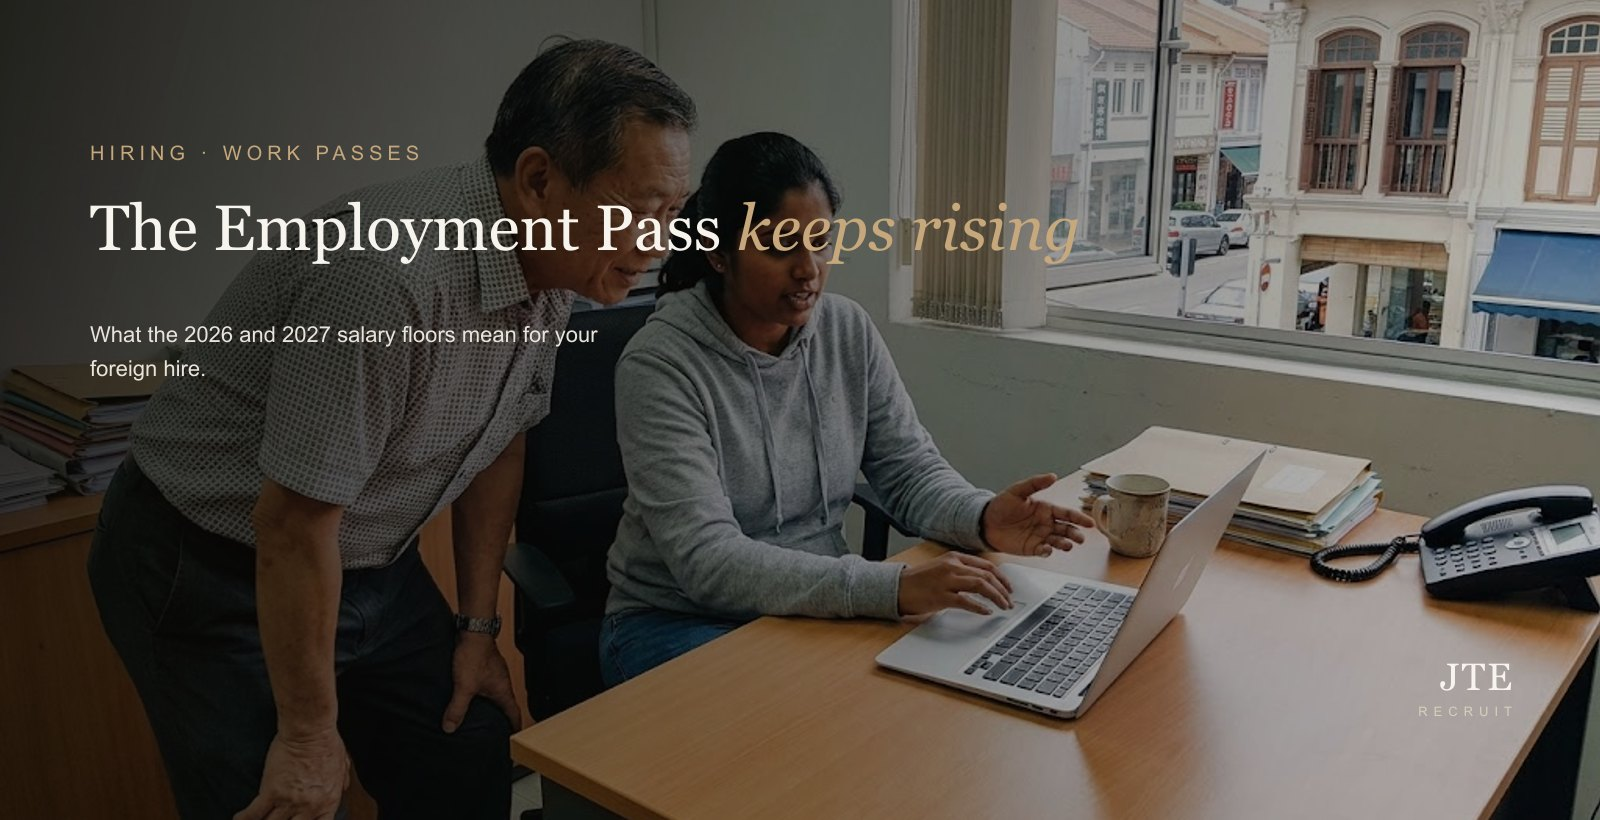
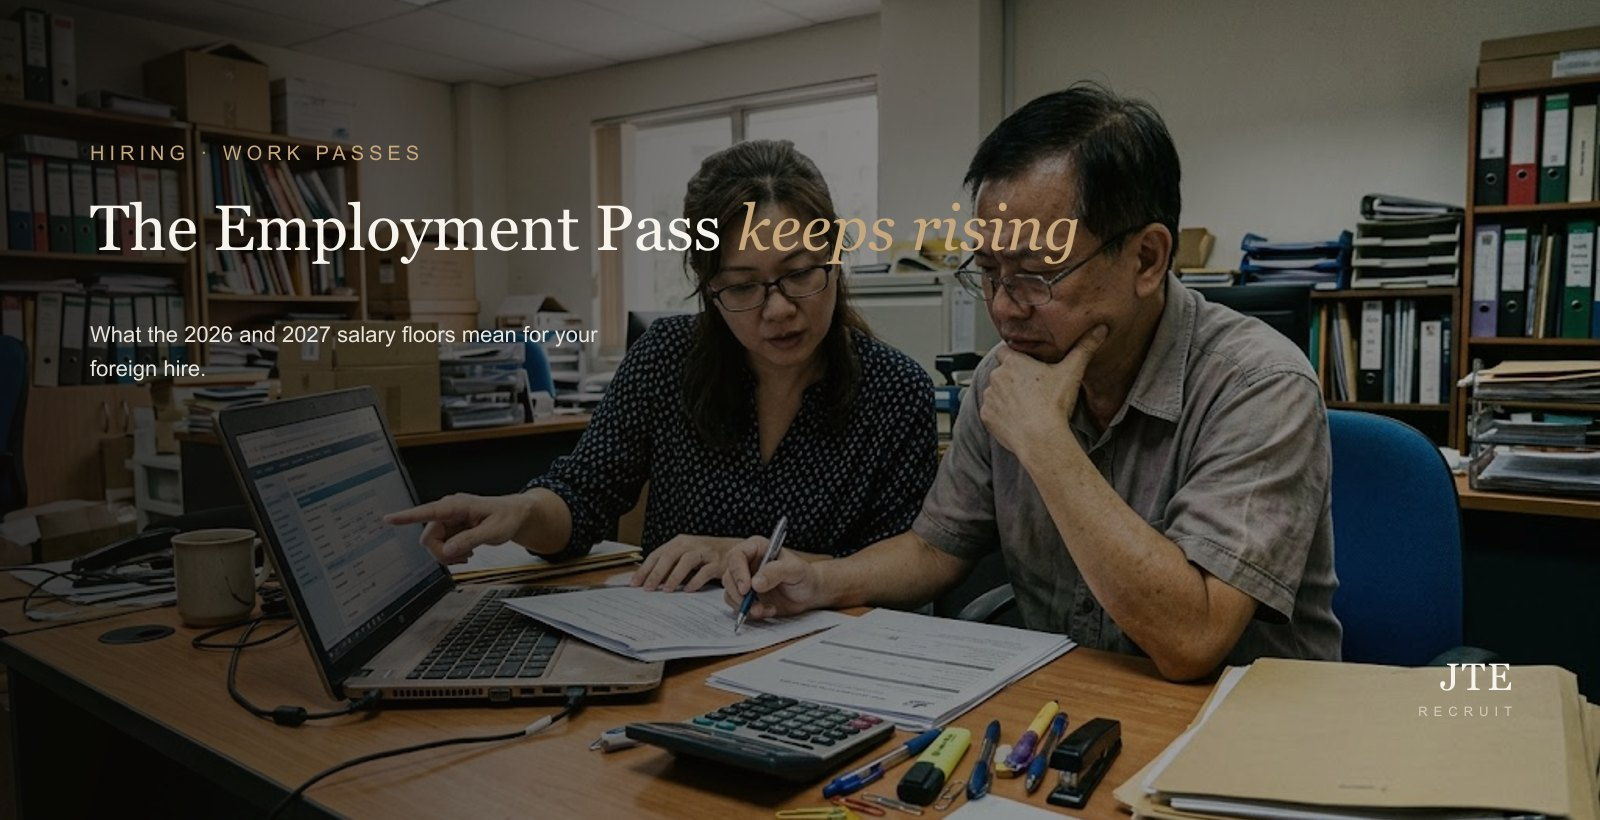
Place Eugene's photos: year-end (woman-on-phone hero + pensive-man body), EP/COMPASS (two-person review hero)
Claude-Session: https://claude.ai/code/session_01Q3xYBeyJPAcKPVopMAYY2i

diff --git a/blog/year-end-resignation-wave-singapore/index.html b/blog/year-end-resignation-wave-singapore/index.html
@@ -170,6 +170,12 @@
             <p><strong>Takeaway</strong> &mdash; A cooler hiring market doesn&rsquo;t keep your best people; it just thins the queue behind them. The ones you most want to keep are the ones who still have options, bonus or no bonus.</p>
         </div>
 
+        
+
+        <figure class="mb-10">
+            <img src="photo-1.jpg" alt="A manager at his desk reading a resignation email on his laptop, hand on his chin, in a Singapore office" class="w-full rounded-xl" loading="lazy" width="1600" height="900">
+        </figure>
+
         <h2>Why backfilling in February is so brutal</h2>
         <p>The cruel twist is that the exit and the hiring crunch land at the same moment. You lose someone fast, and you replace them slowly, because everyone else is playing the same waiting game:</p>
         <ul>

diff --git a/qa-reports/qa-2026-10-15.md b/qa-reports/qa-2026-10-15.md
@@ -1,0 +1,14 @@
+# JTE website QA report — 2026-10-15
+
+Run: 2026-10-15 00:46 UTC · Pages scanned: **96** · **0 FAIL**, **0 WARN**
+
+> ✅ No blocking issues (FAIL) found.
+
+## Summary by check
+
+| Check | Severity | Count |
+|---|---|---|
+| _all clear_ | — | 0 |
+
+---
+_Generated by `scripts/qa-check.mjs`. Contact allowlist: tel +6567157450, +6590115381; email @jte.com.sg. Sample values on /verify/ are exempt._
